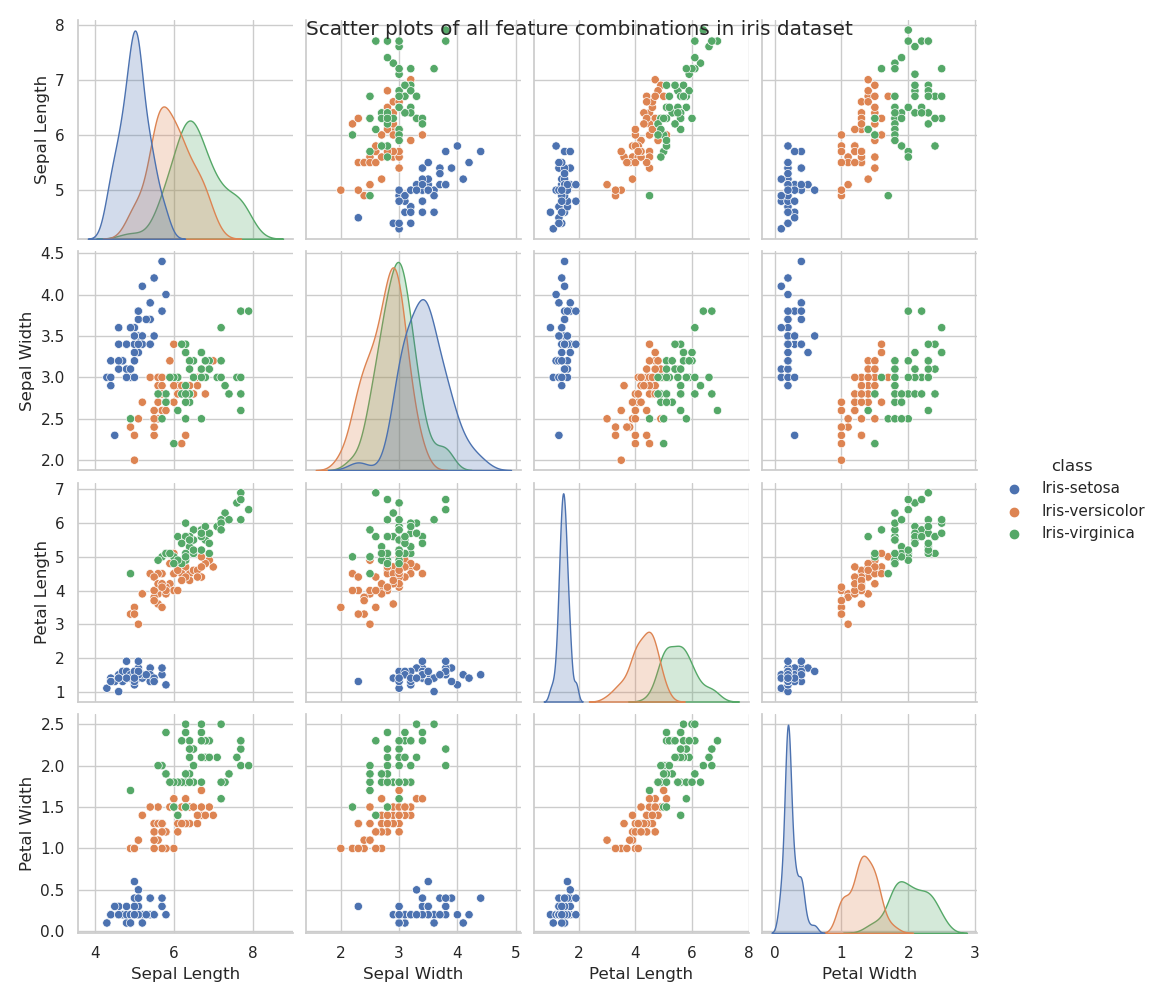
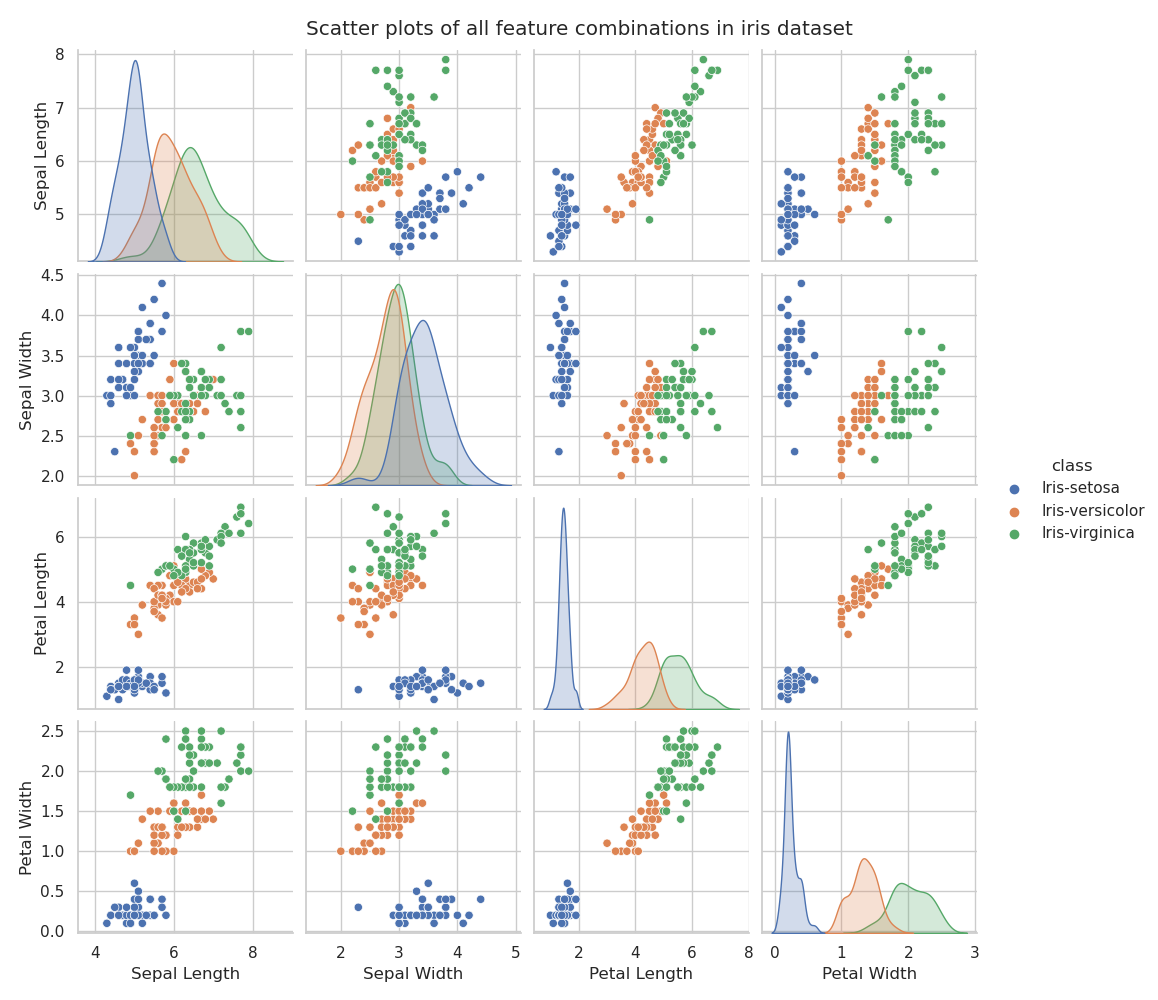
Debugged pairplot

diff --git a/analysis_plots.py b/analysis_plots.py
@@ -166,9 +166,9 @@ def pairplots(data=None, title=None, filename=None):
 
     # Set title if specified
     if title:                  
+        g.fig.subplots_adjust(top=0.95)
         g.fig.suptitle(title)
 
     # Save to specified path
     if filename:
-        # plt.tight_layout()
         plt.savefig(filename)
